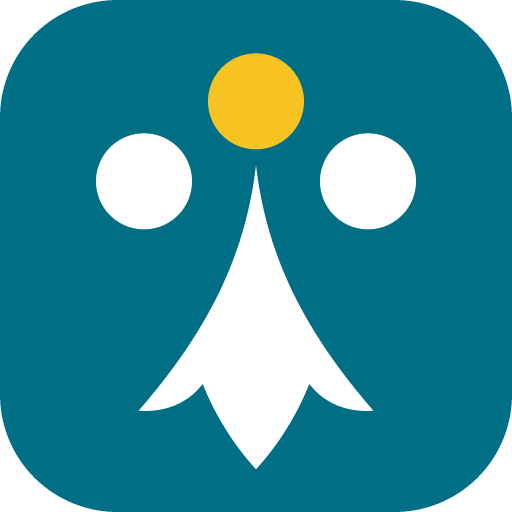
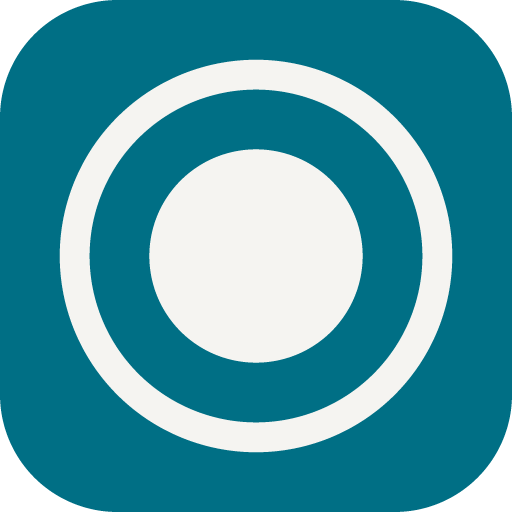
Living Business prend son île
Breizhcosystem montre l'archipel ; le cockpit installé chez vous en montre une seule, cerclée.
L'endossement « Living Business par Breizhcosystem » se comprend maintenant sans être écrit :
le dessin dit que le produit est une île du réseau.

Pas d'Ajonc, et c'est volontaire. Le Feu appartient aux agents, qui circulent ENTRE les
entreprises ; un agent n'habite pas celle qu'on regarde de l'intérieur.

Deux cercles concentriques remplacent la moucheture : plus aucune courbe de Bézier à aplatir
pour peindre les PNG, donc plus rien qui puisse se désynchroniser entre le tracé SVG et les
icônes. L'essai relit trois pixels sur l'horizontale du centre — l'île, le creux, l'anneau —
plutôt que de comparer des coordonnées à des coordonnées.

Au favicon, l'anneau s'épaissit et l'île grossit : à 16 px, un anneau fin disparaît. On enlève
ou on renforce, on ne réduit jamais le dessin tel quel.

Non publié : il faudra une version pour que les postes installés le reçoivent.

diff --git a/scripts/icones.ts b/scripts/icones.ts
@@ -17,46 +17,20 @@ export type Forme = 'arrondie' | 'pleine';
 
 const IROISE: Rgba = [0x00, 0x6f, 0x85, 255];
 const BLANC: Rgba = [255, 255, 255, 255];
-const AJONC: Rgba = [0xf7, 0xc3, 0x23, 255];
+const SEL: Rgba = [0xf5, 0xf4, 0xf1, 255];
 
-// ---------------------------------------------------------------- la Moucheture (grille de 48, §2.3)
-/** Queue : un départ puis des courbes de Bézier cubiques (mêmes coordonnées que le tracé SVG). */
-export const QUEUE = Object.freeze({
-  depart: [24, 15.5] as const,
-  courbes: [
-    [23, 24, 19.5, 31, 13, 38.5], [15.6, 38.7, 17.7, 37.7, 19, 36], [20.3, 39.2, 22, 41.8, 24, 44],
-    [26, 41.8, 27.7, 39.2, 29, 36], [30.3, 37.7, 32.4, 38.7, 35, 38.5], [28.5, 31, 25, 24, 24, 15.5],
-  ] as const,
-});
-/** Points : gauche, droit (blancs) et sommet (Ajonc, « la lumière »). */
-export const POINTS = Object.freeze([
-  { x: 13.5, y: 17, r: 4.5, ajonc: false }, { x: 34.5, y: 17, r: 4.5, ajonc: false }, { x: 24, y: 9.5, r: 4.5, ajonc: true },
-]);
+// ---------------------------------------------------------------- l'Île (grille de 48, §2.3)
+/**
+ * LIVING BUSINESS, C'EST VOTRE ÎLE. Breizhcosystem montre l'archipel ; le cockpit installé chez vous en montre une
+ * seule, cerclée — la marque « la vôtre » de la grammaire. Pas d'agent ici : un agent circule ENTRE les entreprises,
+ * il n'habite pas celle qu'on regarde de l'intérieur.
+ *
+ * Deux cercles concentriques, donc plus aucune courbe à aplatir pour peindre les PNG : il n'y a plus rien qui puisse
+ * se désynchroniser entre le tracé SVG et les icônes.
+ */
+export const ILE = Object.freeze({ x: 24, y: 24, r: 10 });
+export const ANNEAU = Object.freeze({ x: 24, y: 24, r: 17, trait: 2.8 });
 export const RAYON_CONTENEUR = 11 / 48;
-
-/** Contour de la queue aplati en polygone (24 segments par courbe). */
-const POLYGONE: Array<[number, number]> = (() => {
-  const pts: Array<[number, number]> = [[QUEUE.depart[0], QUEUE.depart[1]]];
-  let [x0, y0]: [number, number] = [QUEUE.depart[0], QUEUE.depart[1]];
-  for (const [x1, y1, x2, y2, x3, y3] of QUEUE.courbes) {
-    for (let k = 1; k <= 24; k++) {
-      const t = k / 24;
-      const m = 1 - t;
-      pts.push([m * m * m * x0 + 3 * m * m * t * x1 + 3 * m * t * t * x2 + t * t * t * x3, m * m * m * y0 + 3 * m * m * t * y1 + 3 * m * t * t * y2 + t * t * t * y3]);
-    }
-    [x0, y0] = [x3, y3];
-  }
-  return pts;
-})();
-function dansQueue(x: number, y: number): boolean {
-  let dedans = false;
-  for (let i = 0, j = POLYGONE.length - 1; i < POLYGONE.length; j = i++) {
-    const [xi, yi] = POLYGONE[i] as [number, number];
-    const [xj, yj] = POLYGONE[j] as [number, number];
-    if ((yi > y) !== (yj > y) && x < ((xj - xi) * (y - yi)) / (yj - yi) + xi) dedans = !dedans;
-  }
-  return dedans;
-}
 
 /** Couleur d'un point (u, v ∈ [0, 1]) de l'icône, ou null hors de la forme (transparent). `echelle` : part du côté occupée par la grille de 48. */
 function couleur(u: number, v: number, forme: Forme, echelle: number): Rgba | null {
@@ -68,8 +42,9 @@ function couleur(u: number, v: number, forme: Forme, echelle: number): Rgba | nu
   }
   const gx = ((u - 0.5) / echelle) * 48 + 24;
   const gy = ((v - 0.5) / echelle) * 48 + 24;
-  for (const p of POINTS) if ((gx - p.x) ** 2 + (gy - p.y) ** 2 <= p.r * p.r) return p.ajonc ? AJONC : BLANC;
-  if (dansQueue(gx, gy)) return BLANC;
+  const d2 = (gx - ILE.x) ** 2 + (gy - ILE.y) ** 2;
+  if (d2 <= ILE.r ** 2) return SEL;
+  if (Math.abs(Math.sqrt(d2) - ANNEAU.r) <= ANNEAU.trait / 2) return SEL;
   return IROISE;
 }
 

diff --git a/scripts/icones.test.ts b/scripts/icones.test.ts
@@ -2,7 +2,7 @@ import { test } from 'node:test';
 import assert from 'node:assert/strict';
 import { readFileSync } from 'node:fs';
 import { inflateSync } from 'node:zlib';
-import { crc32, ICONES, lignesBrutes, pixelsIcone, pixelsIconeMac, png, POINTS, QUEUE, RAYON_CONTENEUR } from './icones.ts';
+import { ANNEAU, crc32, ICONES, ILE, lignesBrutes, pixelsIcone, pixelsIconeMac, png, RAYON_CONTENEUR } from './icones.ts';
 
 /** Lecture minimale d'un PNG : blocs (CRC vérifié), en-tête, données décompressées. */
 function lirePng(b: Buffer) {
@@ -45,23 +45,29 @@ test('PNG : encodeur relu par un décodeur (RGBA 8 bits, CRC, zlib)', () => {
   assert.equal(crc32(Buffer.from('IEND')), 0xae426082, 'CRC du bloc IEND (constante connue)');
 });
 
-test('icônes : même Moucheture que web/symbole-living-business.svg (§2.3), plus de monogramme « LB »', () => {
+test('icônes : même Île que web/symbole-living-business.svg (§2.3), plus de monogramme « LB » ni de moucheture', () => {
   const svg = readFileSync(new URL('../web/symbole-living-business.svg', import.meta.url), 'utf8');
-  const d = /<path d="([^"]+)"/.exec(svg)?.[1] ?? '';
-  assert.deepEqual(d.match(/-?\d+(?:\.\d+)?/g)?.map(Number), [...QUEUE.depart, ...QUEUE.courbes.flat()], 'tracé de la queue');
-  assert.match(d, /^M[^C]+(C[^C]+){6}Z$/, 'un départ, six courbes, fermé');
-  for (const p of POINTS) assert.match(svg, new RegExp(`<circle cx="${p.x}" cy="${p.y}" r="${p.r}" fill="${p.ajonc ? '#f7c323' : '#fff'}"/>`), `point ${p.x}, ${p.y}`);
-  assert.match(svg, /<rect width="48" height="48" rx="11" fill="#006f85"\/>/);
+  assert.match(svg, /<rect width="48" height="48" rx="11" fill="#006f85"\/>/, 'conteneur Iroise');
+  assert.match(svg, new RegExp(`<circle cx="${ILE.x}" cy="${ILE.y}" r="${ILE.r}" fill="#f5f4f1"/>`), 'l’île');
+  assert.match(svg, new RegExp(`<circle cx="${ANNEAU.x}" cy="${ANNEAU.y}" r="${ANNEAU.r}" fill="none" stroke="#f5f4f1" stroke-width="${ANNEAU.trait}"/>`), 'l’anneau');
+  assert.doesNotMatch(svg, /<path/, 'plus aucun tracé : deux cercles, rien à désynchroniser');
   assert.equal(RAYON_CONTENEUR, 11 / 48);
-  // le point du sommet est en Ajonc (« la lumière ») sur l'icône publiée
+
+  // L'ÎLE EST CERCLÉE, ET ÇA SE VOIT SUR L'IMAGE PUBLIÉE. On relit trois pixels sur l'horizontale du centre :
+  // le centre (l'île), le creux entre l'île et l'anneau (Iroise), puis l'anneau lui-même.
   const i = ICONES.find((x) => x.nom === 'icone-512.png');
   assert.ok(i);
   const px = pixelsIcone(i.cote, i.forme, i.echelle);
-  const k = (Math.round((9.5 / 48) * i.cote) * i.cote + Math.round(i.cote / 2)) * 4;
-  assert.deepEqual([px[k], px[k + 1], px[k + 2]], [0xf7, 0xc3, 0x23]);
+  const au = (xGrille: number): number[] => {
+    const k = (Math.round(i.cote / 2) * i.cote + Math.round((xGrille / 48) * i.cote)) * 4;
+    return [px[k], px[k + 1], px[k + 2]] as number[];
+  };
+  assert.deepEqual(au(24), [0xf5, 0xf4, 0xf1], 'le centre est l’île');
+  assert.deepEqual(au(37.5), [0x00, 0x6f, 0x85], 'entre l’île et l’anneau, le conteneur');
+  assert.deepEqual(au(41), [0xf5, 0xf4, 0xf1], 'l’anneau');
 });
 
-test('icône Mac : même Moucheture, conteneur à 824/1024 du côté sur fond transparent (gabarit macOS)', () => {
+test('icône Mac : même Île, conteneur à 824/1024 du côté sur fond transparent (gabarit macOS)', () => {
   const cote = 256;
   const px = pixelsIconeMac(cote);
   const alpha = (x: number, y: number) => px[(y * cote + x) * 4 + 3];

diff --git a/src/ds/entree.test.ts b/src/ds/entree.test.ts
@@ -79,15 +79,19 @@ test('écrans d’entrée : Moucheture, « par Breizhcosystem », illustration d
   assert.doesNotMatch(lire('web/style.css'), /\.entree-marque|\.promesses|\.option-depart|\.apercu-etapes/, 'ancien CSS des écrans d’entrée retiré');
 });
 
-test('marque : favicon (dessin de 16 à 23 px), manifeste, theme-color et icônes Moucheture (§2.3)', () => {
+test('marque : favicon (dessin de 16 à 23 px), manifeste, theme-color et icônes Île (§2.3)', () => {
   const index = lire('web/index.html');
   assert.ok(index.includes('<meta name="theme-color" content="#f9f6f2" media="(prefers-color-scheme: light)">'));
   assert.ok(index.includes('<meta name="theme-color" content="#091115" media="(prefers-color-scheme: dark)">'));
   assert.ok(index.includes('<link rel="icon" type="image/svg+xml" href="/favicon.svg">'));
   const favicon = lire('web/favicon.svg');
-  assert.match(favicon, /<circle cx="24" cy="8" r="5\.5" fill="#f7c323"\/>/, 'petite taille : points grossis et écartés');
+  // À cette taille, l'anneau est ce qui disparaît en premier : il doit être PLUS ÉPAIS que sur le symbole de 24 px,
+  // et l'île plus grosse. On enlève ou on renforce, on ne réduit jamais le dessin tel quel.
+  assert.match(favicon, /<circle cx="24" cy="24" r="11" fill="#f5f4f1"\/>/, 'petite taille : l’île grossit');
+  assert.match(favicon, /stroke-width="4"/, 'petite taille : l’anneau s’épaissit');
+  assert.doesNotMatch(favicon, /#f7c323/, 'plus d’Ajonc : le Feu appartient aux agents, et un agent n’habite pas votre île');
   assert.match(favicon, /<rect width="48" height="48" rx="11" fill="#006f85"\/>/);
-  assert.doesNotMatch(favicon, /<script|on[a-z]+=|href=|<line|<polyline/i, 'ni script ni lignes entre les points');
+  assert.doesNotMatch(favicon, /<script|on[a-z]+=|href=|<line|<polyline/i, 'ni script ni lien');
   const m = JSON.parse(lire('web/manifest.webmanifest')) as { name: string; short_name: string; icons: Array<{ src: string; purpose: string }> };
   assert.deepEqual([m.name, m.short_name], ['Living Business', 'Living Business']);
   for (const i of m.icons) assert.ok(statSync(new URL(`../../web${i.src}`, import.meta.url)).size > 500, i.src);

diff --git a/src/ds/ds.test.ts b/src/ds/ds.test.ts
@@ -107,7 +107,7 @@ test('icônes : sprite à jour (Lucide 1.71.0 + icônes maison), toutes les icô
   assert.equal(sprite, spriteAttendu(), 'web/bz/icones.svg : lancez npm run icones:sprite');
   assert.doesNotMatch(sprite, /<style|style=|<script|on[a-z]+=|href=/i, 'aucun style, script ni lien');
   const ids = new Set([...sprite.matchAll(/<symbol id="i-([a-z0-9-]+)"/g)].map((m) => m[1]));
-  for (const n of ['bz-moucheture', 'bz-nexus', 'bz-phare-allume', 'x', 'search', 'chevron-down']) assert.ok(ids.has(n), n);
+  for (const n of ['bz-ile', 'bz-nexus', 'bz-phare-allume', 'x', 'search', 'chevron-down']) assert.ok(ids.has(n), n);
   const sources = [lire('web/app.js'), ...readdirSync(RACINE + 'web/bz').filter((f) => f.endsWith('.js')).map((f) => lire(`web/bz/${f}`))].join('\n');
   const utilisees = new Set([...sources.matchAll(/icone\('([a-z0-9-]+)'/g), ...sources.matchAll(/icone: '([a-z0-9-]+)'/g)].map((m) => m[1] as string));
   for (const table of ['ICONE_FAMILLE', 'ICONE_NIVEAU', 'ICONE_VUE', 'ICONES']) {
